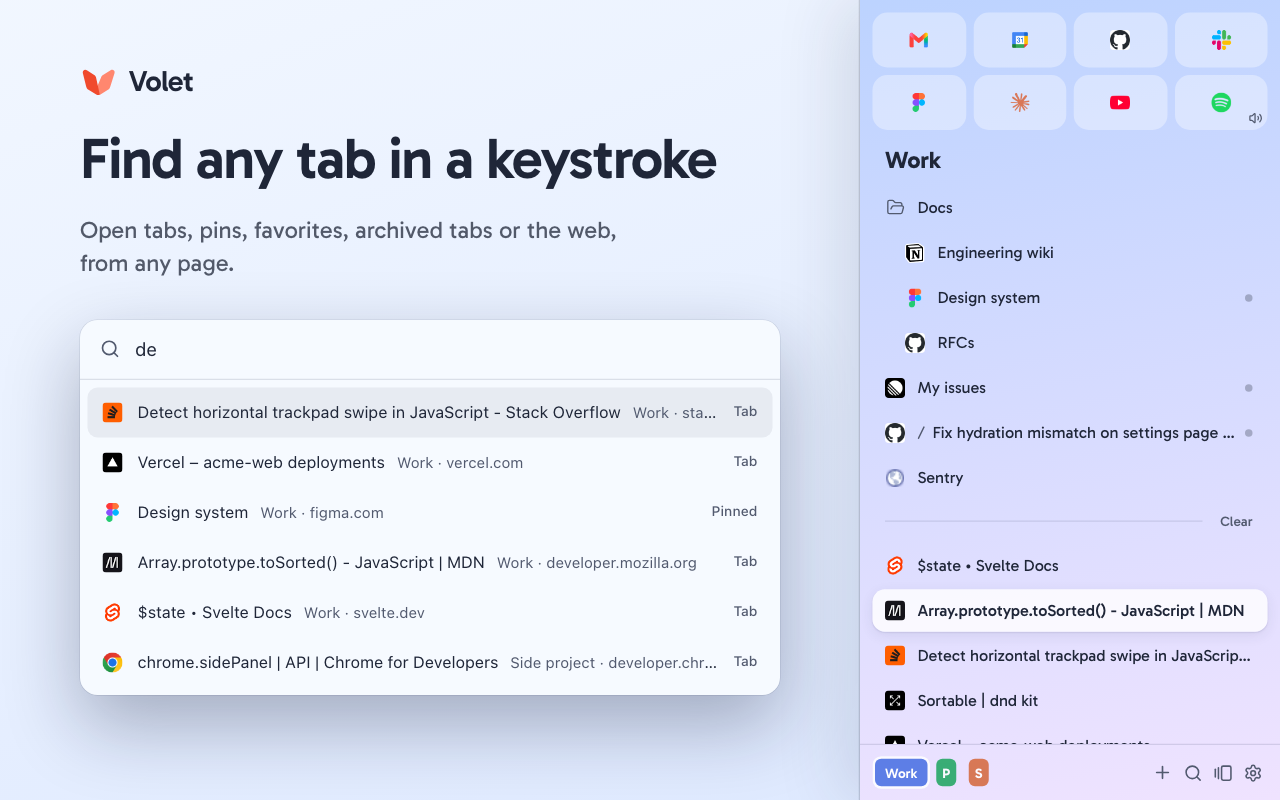
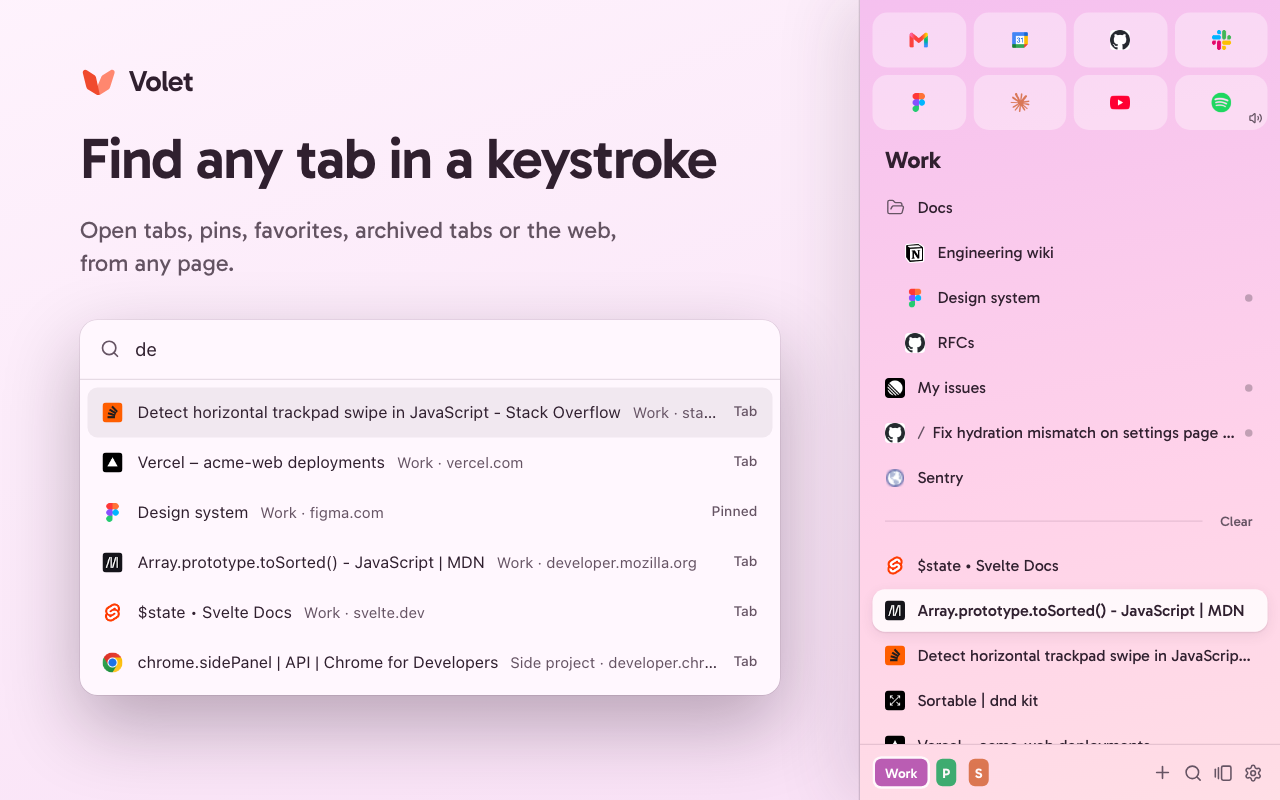
Store screenshots: the tab switcher, all light, each in its own color
The tab switcher replaces drag and drop as the fourth screenshot: its
headline over the switcher's five cards, the sidebar's own recent tabs
(one of them from another Volet) with their sites' icons and drawn
previews, the second picked as after a first press. The capture no
longer drags anything.

All five are light now, each in another of the colors a Volet can take
(indigo, green, pink, teal, orange), none shared with the other
shutters in its bar. The store frame lost its dark option and sets the
light scheme everywhere, whatever the capturing machine's.

Claude-Session: https://claude.ai/code/session_015TFLsLupTHHV9voDVcfDQv

diff --git a/proto/store.ts b/proto/store.ts
@@ -1,25 +1,33 @@
 import { mount } from 'svelte';
+import { faviconSources } from '@/lib/model/favicon';
+import type { RecentTab } from '@/lib/model/recent-tabs';
+import type { TabId } from '@/lib/model/types';
 import { FakeArcClient } from '@/lib/state/fake/fake-arc.svelte';
 import { fakePaletteClient } from '@/lib/state/fake/fake-palette';
+import { screenshot } from '@/lib/state/fake/fake-recent-tabs';
 import { FakeSidebarStore } from '@/lib/state/fake/fake-store.svelte';
 import StoreFrame from './StoreFrame.svelte';
 import '@/app.css';
 
 /**
  * The Chrome Web Store images, one scene per URL (`?scene=palette`), rendered by `store/capture.mjs`.
- * A scene sets the copy and the starting state; the capture script does the clicking (palette, menus, drags).
+ * A scene sets the copy and the starting state; the capture script does the typing (Search). The screenshots are all
+ * light, each in another of the colors a Volet can take (`HUE_SWATCHES`), none shared with the bar's other shutters.
  */
 interface Scene {
   shot: 'screenshot' | 'promo' | 'marquee';
   headline?: string;
   detail: string;
-  scheme?: 'light' | 'dark';
   /** Space to show. */
   space?: string;
+  /** The shown Space's color, one of `HUE_SWATCHES`. */
+  hue?: number;
   /** Keep Arc's first-run card and the Arc Spaces offered by New Volet. */
   arc?: boolean;
   /** Show Search as it opens over a page. */
   searching?: boolean;
+  /** Show the recent tab switcher as it opens over a page. */
+  switching?: boolean;
 }
 
 const TAGLINE = 'Vertical tabs in Chrome, sorted into workspaces.';
@@ -29,35 +37,60 @@ const SCENES = {
     shot: 'screenshot',
     headline: 'Your tabs, sorted into Volets',
     detail: "Vertical tabs in Chrome's side panel, with pinned tabs, folders and favorites for each workspace.",
+    hue: 268, // indigo
   },
   volets: {
     shot: 'screenshot',
     headline: 'A Volet for everything',
     detail: 'Work, a trip, a side project: each Volet keeps its own tabs and color. Switch with a swipe.',
-    scheme: 'dark',
     space: 'perso',
+    hue: 152, // green
   },
   palette: {
     shot: 'screenshot',
     headline: 'Find any tab in a keystroke',
     detail: 'Open tabs, pins, favorites, archived tabs or the web, from any page.',
+    hue: 330, // pink
     searching: true,
   },
-  drag: {
+  switcher: {
     shot: 'screenshot',
-    headline: 'Drag tabs where they belong',
-    detail: 'Pin and unpin, file into folders, or drop onto another Volet. A line shows where it lands.',
+    headline: 'Jump back to a recent tab',
+    detail: 'Hold Ctrl and press Q to see your five most recent tabs, each with a preview. Let go to switch.',
+    hue: 205, // teal
+    switching: true,
   },
   arc: {
     shot: 'screenshot',
     headline: 'Coming from Arc?',
     detail: 'Bring your Arc Spaces over, with their colors, pinned tabs, folders and favorites.',
     space: 'side',
+    hue: 42, // orange
     arc: true,
   },
   promo: { shot: 'promo', detail: TAGLINE },
   marquee: { shot: 'marquee', detail: TAGLINE },
 } satisfies Record<string, Scene>;
+
+/**
+ * The switcher's five most recent tabs, from the sidebar's own: the one in front, then the ones used before it, one
+ * of them in another Volet. Their previews are drawn in each site's colors; their icons come from where the sidebar's
+ * do (the switcher only shows the icon each tab comes with).
+ */
+const RECENT: [TabId, [string, string]][] = [
+  [21, ['#ffffff', '#1b1b1b']],
+  [22, ['#ffffff', '#f48024']],
+  [10, ['#f5f5f5', '#1e1e1e']],
+  [12, ['#ffffff', '#24292f']],
+  [40, ['#ffffff', '#1a73e8']],
+];
+
+function recentTabs(store: FakeSidebarStore): RecentTab[] {
+  return RECENT.flatMap(([id, colors]) => {
+    const tab = store.tabs.get(id);
+    return tab ? [{ id, title: tab.title, url: tab.url, icon: faviconSources(tab.url, 24)[0], preview: screenshot(colors) }] : [];
+  });
+}
 
 const name = new URLSearchParams(location.search).get('scene') ?? '';
 const scene: Scene = name in SCENES ? SCENES[name as keyof typeof SCENES] : SCENES.sidebar;
@@ -69,6 +102,7 @@ if (!scene.arc) {
   arc.forget();
 }
 if (scene.space) store.switchSpace(scene.space);
+if (scene.hue !== undefined) store.setSpaceHue(store.activeSpaceId, scene.hue);
 
 mount(StoreFrame, {
   target: document.getElementById('app')!,
@@ -79,7 +113,7 @@ mount(StoreFrame, {
     shot: scene.shot,
     headline: scene.headline ?? '',
     detail: scene.detail,
-    scheme: scene.scheme,
     searching: scene.searching,
+    switcherTabs: scene.switching ? recentTabs(store) : undefined,
   },
 });

diff --git a/proto/StoreFrame.svelte b/proto/StoreFrame.svelte
@@ -1,10 +1,11 @@
 <script lang="ts">
   import type { ArcClient } from '@/lib/model/arc';
   import type { PaletteClient } from '@/lib/model/palette';
+  import type { RecentTab } from '@/lib/model/recent-tabs';
   import type { RecentTabsLauncher } from '@/lib/model/recent-tabs-launcher';
   import type { SidebarStore } from '@/lib/model/types';
-  import { colorScheme } from '@/lib/ui/primitives/color-scheme';
   import PaletteBox from '@/lib/ui/palette/PaletteBox.svelte';
+  import RecentTabCard from '@/lib/ui/recent-tabs/RecentTabCard.svelte';
   import { PaletteState } from '@/lib/ui/palette/palette-state.svelte';
   import Sidebar from '@/lib/ui/sidebar/Sidebar.svelte';
   import { FakeSearchLauncher } from '@/lib/state/fake/fake-search.svelte';
@@ -22,12 +23,13 @@
     shot: 'screenshot' | 'promo' | 'marquee';
     headline: string;
     detail: string;
-    scheme?: 'light' | 'dark';
     /** Shows Search as it opens over a page, under the headline (the capture types into it). */
     searching?: boolean;
+    /** Shows the recent tab switcher with these tabs, under the headline, the second one picked (a first press). */
+    switcherTabs?: RecentTab[];
   }
 
-  let { store, palette, arc, shot, headline, detail, scheme, searching = false }: Props = $props();
+  let { store, palette, arc, shot, headline, detail, searching = false, switcherTabs }: Props = $props();
 
   // Fixed for the page's lifetime. Search shows over the page, so the panel's own stays closed.
   // svelte-ignore state_referenced_locally
@@ -46,7 +48,8 @@
 {/snippet}
 
 {#if shot === 'screenshot'}
-  <main class="frame screenshot" style:--frame-hue={hue} data-scheme={scheme ?? 'light'}>
+  <!-- Light, like every store image. -->
+  <main class="frame screenshot" style:--frame-hue={hue}>
     <section class={['flex min-w-0 flex-1 flex-col gap-5 px-16', search ? 'pt-12' : 'justify-center']}>
       {@render wordmark(30)}
       <h1 class="text-[46px] leading-[1.05] font-semibold tracking-tight text-balance">{headline}</h1>
@@ -55,15 +58,35 @@
         <!-- Search as it shows over a page: its surface, tinted like the panel, the results cut at the frame's foot. -->
         <div
           class="palette-root mt-3 max-h-[300px] overflow-hidden rounded-[14px] bg-(--menu) font-sans text-ink [box-shadow:var(--overlay-shadow)]"
-          data-scheme={colorScheme(scheme)}
+          data-scheme="light"
           style:--space-hue={search.hue ?? hue}
         >
           <PaletteBox palette={search} onclose={() => undefined} />
         </div>
       {/if}
+      {#if switcherTabs}
+        <!-- The switcher as it shows over a page: its surface and cards, wider than the text, as the page is. -->
+        <div
+          class="recent-tabs-root -mx-10 mt-5 rounded-[14px] bg-(--menu) p-2 font-sans text-[13px]/[1.35] text-ink antialiased [box-shadow:var(--overlay-shadow)]"
+          data-scheme="light"
+          style:--space-hue={hue}
+        >
+          <div class="flex gap-0.5">
+            {#each switcherTabs as tab, index (tab.id)}
+              <RecentTabCard
+                {tab}
+                selected={index === 1}
+                onchoose={() => undefined}
+                onhighlight={() => undefined}
+                onclose={() => undefined}
+              />
+            {/each}
+          </div>
+        </div>
+      {/if}
     </section>
     <aside class="panel">
-      <Sidebar {store} search={panelSearch} {palette} {arc} {recentTabs} {scheme} />
+      <Sidebar {store} search={panelSearch} {palette} {arc} {recentTabs} scheme="light" />
     </aside>
   </main>
 {:else}
@@ -94,10 +117,6 @@
     background: linear-gradient(160deg, oklch(0.975 0.018 var(--frame-hue)), oklch(0.93 0.04 var(--frame-hue)));
   }
 
-  .screenshot[data-scheme='dark'] {
-    color: oklch(0.95 0.015 var(--frame-hue));
-    background: linear-gradient(160deg, oklch(0.27 0.03 var(--frame-hue)), oklch(0.19 0.02 var(--frame-hue)));
-  }
 
   /* Chrome's side panel: full height on the right, a hairline on its left edge. */
   .screenshot .panel {

diff --git a/src/lib/state/fake/fake-recent-tabs.ts b/src/lib/state/fake/fake-recent-tabs.ts
@@ -19,7 +19,7 @@ const PAGES: SamplePage[] = [
 ];
 
 /** A page-like screenshot drawn on a canvas: a header, a heading and lines of text in the page's colors. */
-function screenshot([background, ink]: [string, string]): string {
+export function screenshot([background, ink]: [string, string]): string {
   const canvas = document.createElement('canvas');
   canvas.width = 640;
   canvas.height = 400;
